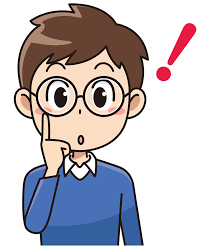
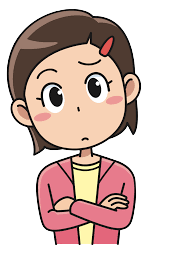
pic3-main

diff --git a/public/stylesheets/main-body.css b/public/stylesheets/main-body.css
@@ -200,9 +200,67 @@ p.quote {
      /* FRAME 3 */
     div.pic3 {
         position: absolute;
-        background-color: transparent;
+        width:30em;
+        height: 40em;
+        animation: .5s linear;
+        top: 25.5em;
+        left: 8%;
     }
 
+    #person-image-3 {
+        width: 30em;
+    }
+
+    div.left-bubble-3 {
+        background-color: blue;
+        position:absolute;
+        background-color: white;
+        border-radius: 4px;
+        width: 16em;
+        height: 2em;
+        top: 5em;
+        left: -12em;
+        display: flex;
+        align-items: center;
+        justify-content: center;
+        font-family: Arial, Helvetica, sans-serif;
+    }
+
+    div.right-bubble-3 {
+        position:absolute;
+        display: flex;
+        align-items: center;
+        justify-content: center;
+        background-color:white;
+        border-radius: 4px;
+        width: 16em;
+        height: 2em;
+        left: 23em;
+        top: 3em;
+        font-family: Arial, Helvetica, sans-serif;
+    }
+
+    
+    div.end3-1 {
+        position: absolute;
+        top: 26em;
+        left: 6em;
+    }
+    div.end3-2 {
+        position: absolute;
+        display: flex;
+        left: 4em;
+        top: 29em;
+    }
+
+    div.end3-1 > p {
+        font-family: Arial, Helvetica, sans-serif;
+        font-size: 28px;
+    }
+    div.end3-2 > p {
+        font-family: Arial, Helvetica, sans-serif;
+        font-size: 20px;
+    }
      /* FRAME 4 */
 
     div.pic4 {

diff --git a/public/javascripts/scroll.js b/public/javascripts/scroll.js
@@ -39,7 +39,7 @@ export default class Scroll {
 	}
 	play = async () => {
 		console.log("enter");
-		while(this.playNext) {
+		// while(this.playNext) {
 		await this.timer(5000); // waits 5 secs before switching
 		console.log("it works1");
 
